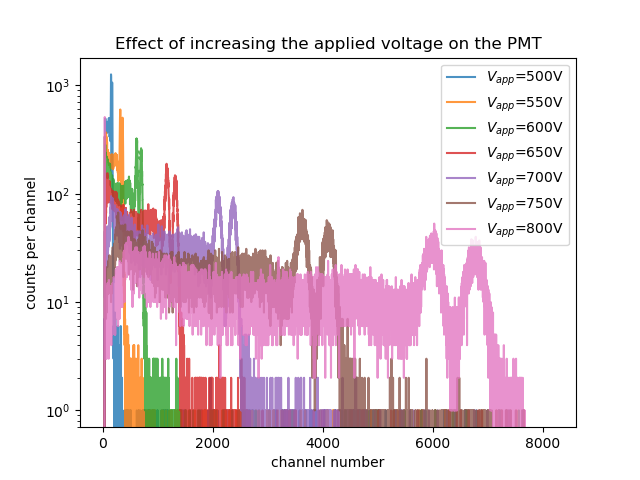
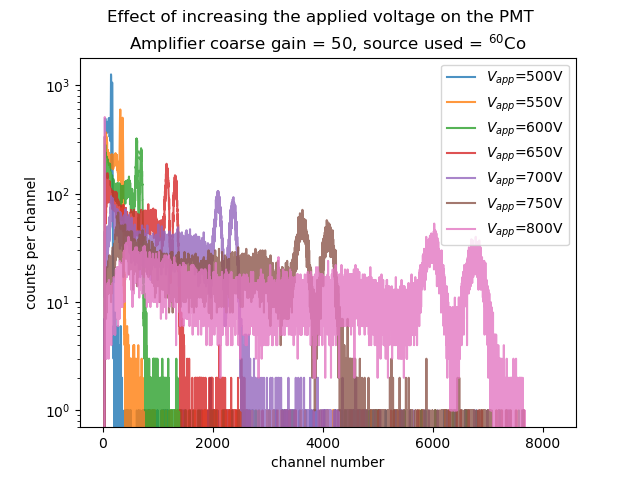
Created scripts for plotting, gathered some peak energy data

Changed region(s): [[0.1562, 0.0, 0.8438, 0.125]]

diff --git a/CoincidenceTiming/QuickPlotter.py b/CoincidenceTiming/QuickPlotter.py
@@ -1,10 +1,22 @@
 #!/home/ocean/anaconda3/bin/python3
 from numpy import cos, arccos, sin, arctan, tan, pi, sqrt; from numpy import array as ary; import numpy as np; tau = 2*pi
 from matplotlib import pyplot as plt
-fileName = "/home/ocean/Documents/GitHubDir/DataAnalysis-NLab/Attenuation/FromJack/NaIDetector/Spectra/Fe/Collimated/Co60_1_plate.Spe"
-f = open(fileName,"r")
-data = f.readlines()
-f.close()
-data = [ int(x) for x in data[12:8204] ]
-plt.semilogy(data)
+fileName = [#"/home/ocean/Documents/GitHubDir/DataAnalysis-NLab/CoincidenceTiming/FromJack/Labs_Annihilation/Calibrations/11-16/133Ba_spectrum.Spe",
+			#"/home/ocean/Documents/GitHubDir/DataAnalysis-NLab/CoincidenceTiming/FromJack/Labs_Annihilation/Ascii/133Ba_spectrum.Spe",
+			#'/home/ocean/Documents/GitHubDir/DataAnalysis-NLab/CoincidenceTiming/FromJack/Labs_Annihilation/Calibrations/11-16/241Am_spectrum.Spe',
+			#'FromJack/Labs_Annihilation/Calibrations/12-07/68Ge_Det_B_44Ti_67_78_peaks_calibraton.Spe',
+			'FromJack/Labs_Annihilation/68Ge_Det_B_44Ti_67_78_peaks_calibraton.Spe',
+			#'FromJack/Labs_Annihilation/Det_A_44Ti_67_78_peaks_calibraton.Spe',
+			#"/home/ocean/Documents/GitHubDir/DataAnalysis-NLab/CoincidenceTiming/FromJack/Labs_Annihilation/Calibrations/11-16/241Am_spectrum.Spe",
+			#"/home/ocean/Documents/GitHubDir/DataAnalysis-NLab/CoincidenceTiming/FromJack/Labs_Annihilation/Ascii/241Am_spectrum.Spe",
+			]
+n=0
+for fn in fileName:
+	n+=1
+	f = open(fn,"r")
+	data = f.readlines()
+	f.close()
+	data = [ int(x) for x in data[12:300] ]
+	plt.semilogy(data,label=str(n))
+plt.legend()
 plt.show()

diff --git a/Attenuation/IncreaseVPlotter.py b/Attenuation/IncreaseVPlotter.py
@@ -15,5 +15,6 @@ plt.legend()
 plt.xlabel("channel number")
 plt.ylabel("counts per channel")
 #plt.text(1,1,"Area under each curve = total number of counts is approximately constant")
-plt.title("Effect of increasing the applied voltage on the PMT")
+plt.suptitle("Effect of increasing the applied voltage on the PMT")
+plt.title("Amplifier coarse gain = 50, source used = "+r"${}^{60}$Co")
 plt.savefig("IncreaseVapp.png")
